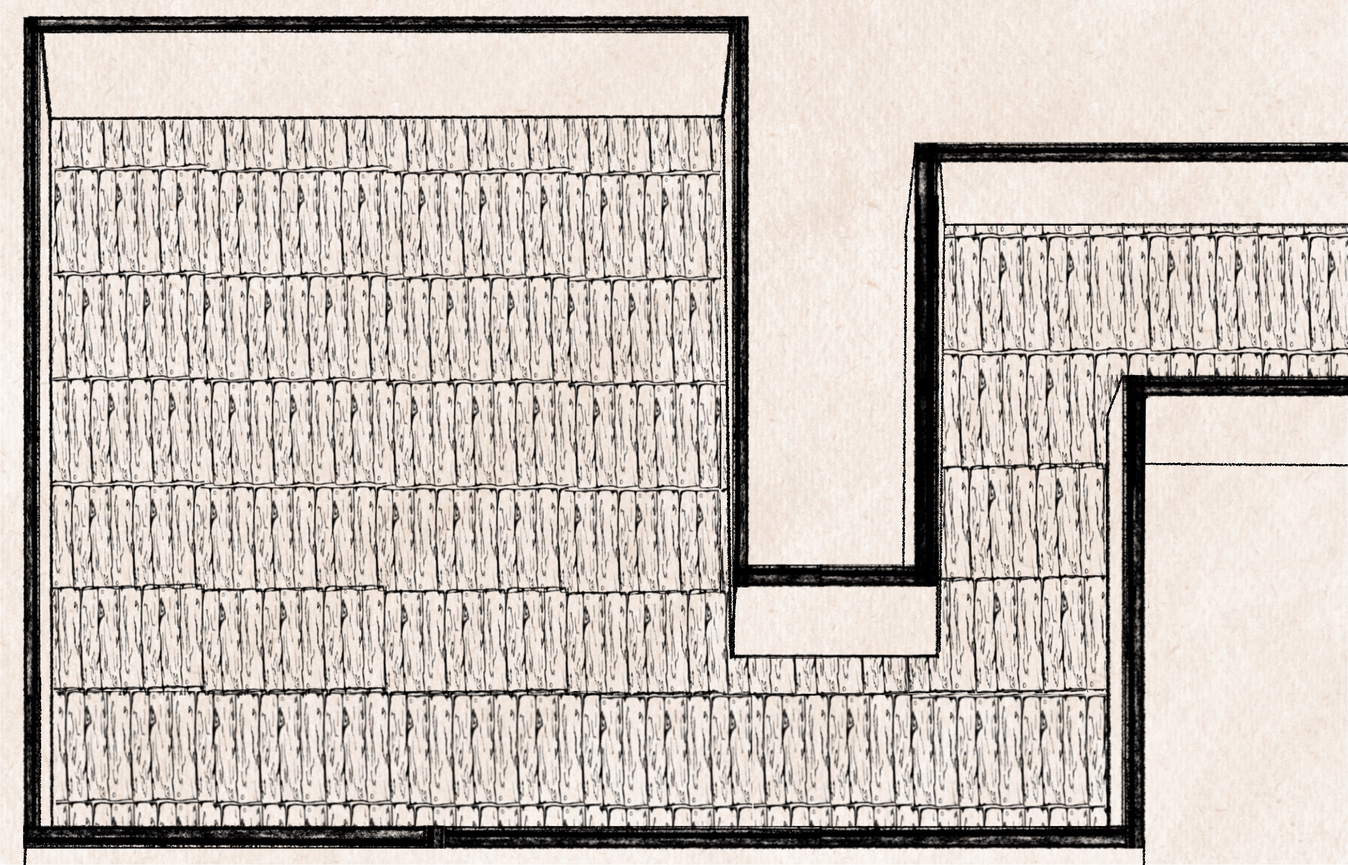
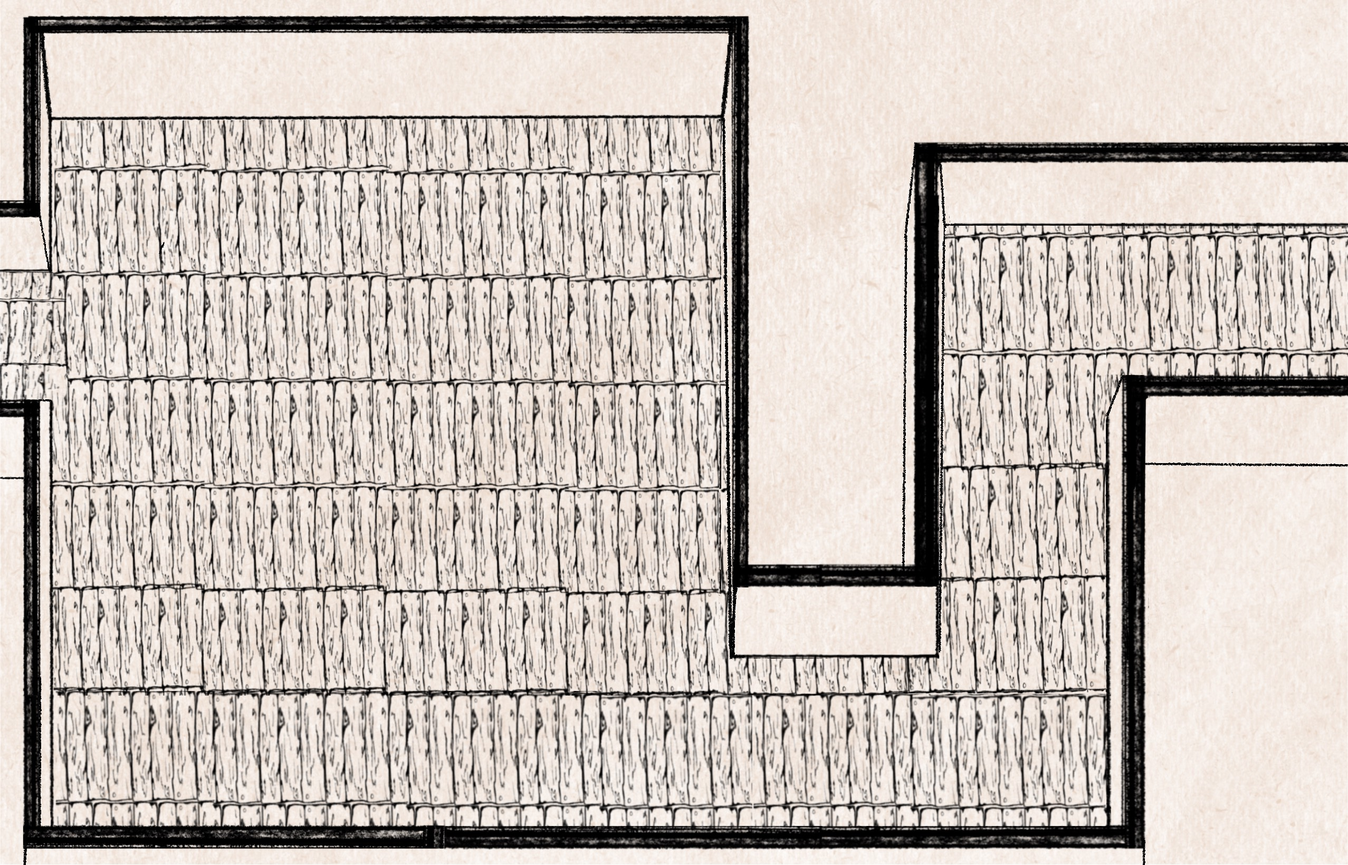
put all of the wall for the 13 rooms. some need small adjustment but mainly all of it works well. also place all of the doorways in the right place but need to make sure that all of the new x and y are correct

Changed region(s): [[0.0, 0.2177, 0.0618, 0.4976]]

diff --git a/Work/Maze_Game/Phaser_version/js/Room.js b/Work/Maze_Game/Phaser_version/js/Room.js
@@ -48,22 +48,68 @@ class Room extends Phaser.GameObjects.Container {
             this.walls.add(new Wall(this.scene, 400, 140, 800, 60));
         }
         else if (this.roomKey === 'room5') {
-            this.walls.add(new Wall(this.scene, 720, 500, 120, 200));
-            this.walls.add(new Wall(this.scene, 720, 150, 120, 200));
+            this.walls.add(new Wall(this.scene, 720, 490, 125, 200));
+            this.walls.add(new Wall(this.scene, 720, 150, 125, 200));
             this.walls.add(new Wall(this.scene, 400, 15, 600, 60));
             this.walls.add(new Wall(this.scene, 400, 575, 600, 60));
             this.walls.add(new Wall(this.scene, 400, 300, 350, 265));
-            this.walls.add(new Wall(this.scene, 80, 500, 120, 200));
-            this.walls.add(new Wall(this.scene, 80, 150, 120, 200));
+            this.walls.add(new Wall(this.scene, 80, 500, 125, 200));
+            this.walls.add(new Wall(this.scene, 80, 150, 125, 200));
         }
         else if (this.roomKey === 'room6') {
-            this.walls.add(new Wall(this.scene, 630, 120, 350, 350));
-            this.walls.add(new Wall(this.scene, 630, 600, 350, 350));
+            this.walls.add(new Wall(this.scene, 610, 120, 350, 355));
+            this.walls.add(new Wall(this.scene, 610, 618, 350, 355));
             this.walls.add(new Wall(this.scene, 100, 60, 160, 150));
             this.walls.add(new Wall(this.scene, 350, 60, 160, 150));
             this.walls.add(new Wall(this.scene, 300, 600, 600, 30));
-            this.walls.add(new Wall(this.scene, 15, 300, 20, 500));
-
+            this.walls.add(new Wall(this.scene, 15, 300, 20, 600));
+        }
+        else if (this.roomKey === 'room7') {
+            this.walls.add(new Wall(this.scene, 45, 440, 80, 400)); // this is the left wall
+            this.walls.add(new Wall(this.scene, 128, 50, 430, 180)); //this is the right wall
+            this.walls.add(new Wall(this.scene, 465, 300, 30, 600));
+            this.walls.add(new Wall(this.scene, 328, 440, 300, 400));
+        }
+        else if (this.roomKey === 'room8') {
+            this.walls.add(new Wall(this.scene, 655, 110, 270, 70));
+            this.walls.add(new Wall(this.scene, 715, 450, 135, 400));
+            this.walls.add(new Wall(this.scene, 495, 225, 133, 450));
+            this.walls.add(new Wall(this.scene, 220, 35, 450, 55));
+            this.walls.add(new Wall(this.scene, 300, 590, 700, 35));
+            this.walls.add(new Wall(this.scene, 15, 100, 35, 150));
+            this.walls.add(new Wall(this.scene, 15, 432, 30, 300));
+        }
+        else if (this.roomKey === 'room9') {
+            this.walls.add(new Wall(this.scene, 190, 508, 300, 305));
+            this.walls.add(new Wall(this.scene, 575, 508, 300, 300));
+            this.walls.add(new Wall(this.scene, 260, 103, 190, 240));
+            this.walls.add(new Wall(this.scene, 540, 103, 190, 240));
+            this.walls.add(new Wall(this.scene, 45, 300, 60, 600));
+            this.walls.add(new Wall(this.scene, 728, 300, 30, 600));
+        }
+        else if (this.roomKey === 'room10') {
+            this.walls.add(new Wall(this.scene, 342, 300, 20, 600));
+            this.walls.add(new Wall(this.scene, 458, 300, 20, 600));
+            this.walls.add(new Wall(this.scene, 30, 300, 30, 600));
+            this.walls.add(new Wall(this.scene, 780, 300, 30, 600));
+            this.walls.add(new Wall(this.scene, 400, 85, 800, 100));
+            this.walls.add(new Wall(this.scene, 80, 590, 100, 30));
+            this.walls.add(new Wall(this.scene, 278, 590, 100, 30));
+            this.walls.add(new Wall(this.scene, 506, 590, 100, 30));
+            this.walls.add(new Wall(this.scene, 713, 590, 100, 30));
+        }
+        else if (this.roomKey === 'room11') {
+            this.walls.add(new Wall(this.scene, 530, 100, 550, 170));
+            this.walls.add(new Wall(this.scene, 110, 300, 100, 600));
+            this.walls.add(new Wall(this.scene, 450, 355, 700, 100));
+        }
+        else if (this.roomKey === 'room12') {
+            this.walls.add(new Wall(this.scene, 170, 300, 30, 600)); // this is the left wall
+            this.walls.add(new Wall(this.scene, 305, 300, 30, 600)); //this is the right wall
+        }
+        else if (this.roomKey === 'room13') {
+            this.walls.add(new Wall(this.scene, 170, 300, 30, 600)); // this is the left wall
+            this.walls.add(new Wall(this.scene, 305, 300, 30, 600)); //this is the right wall
         }
     }
 
@@ -96,7 +142,39 @@ class Room extends Phaser.GameObjects.Container {
 
         else if (this.roomKey === 'room6') {
             this.doorways.add(new Doorway(this.scene, 785, 400, 10, 125, 'room5', 50, 330));
-            this.doorways.add(new Doorway(this.scene, 200, 10, 125, 10, 'room7', 200, 595));
+            this.doorways.add(new Doorway(this.scene, 210, 10, 125, 10, 'room7', 140, 595));
+        }
+        else if (this.roomKey === 'room7') {
+            this.doorways.add(new Doorway(this.scene, 140, 600, 125, 10, 'room6', 230, 70));
+            this.doorways.add(new Doorway(this.scene, 5, 240, 10, 125, 'room8', 770, 250));
+            this.doorways.add(new Doorway(this.scene, 418, 5, 110, 10, 'room9', 395, 595));
+        }
+        else if (this.roomKey === 'room8') {
+            this.doorways.add(new Doorway(this.scene, 785, 210, 10, 125, 'room7', 50, 245));
+            this.doorways.add(new Doorway(this.scene, 5, 220, 10, 125, 'room11', 770, 270));
+        }
+        else if (this.roomKey === 'room9') {
+            this.doorways.add(new Doorway(this.scene, 380, 600, 125, 10, 'room7', 400, 70));
+            this.doorways.add(new Doorway(this.scene, 125, 5, 110, 10, 'room10', 175, 590));
+            this.doorways.add(new Doorway(this.scene, 420, 5, 110, 10, 'room10', 420, 590));
+            this.doorways.add(new Doorway(this.scene, 675, 5, 110, 10, 'room10', 610, 590));
+        }
+        else if (this.roomKey === 'room10') {
+            this.doorways.add(new Doorway(this.scene, 145, 600, 125, 10, 'room9', 115, 70));
+            this.doorways.add(new Doorway(this.scene, 420, 600, 125, 10, 'room9', 410, 70));
+            this.doorways.add(new Doorway(this.scene, 610, 600, 125, 10, 'room9', 675, 70));
+        }
+        else if (this.roomKey === 'room11') {
+            this.doorways.add(new Doorway(this.scene, 785, 270, 10, 125, 'room8', 270, 70));
+            this.doorways.add(new Doorway(this.scene, 210, 10, 125, 10, 'room12', 215, 595));
+        }
+        else if (this.roomKey === 'room12') {
+            this.doorways.add(new Doorway(this.scene, 215, 600, 125, 10, 'room11', 215, 70));
+            this.doorways.add(new Doorway(this.scene, 215, 5, 125, 10, 'room13', 215, 595));
+        }
+        else if (this.roomKey === 'room13') {
+            this.doorways.add(new Doorway(this.scene, 215, 600, 125, 10, 'room12', 215, 70));
+            this.doorways.add(new Doorway(this.scene, 215, 5, 125, 10, 'roomEnd', 575, 595));
         }
     }
 

diff --git a/Work/Maze_Game/Phaser_version/js/GameScene.js b/Work/Maze_Game/Phaser_version/js/GameScene.js
@@ -15,6 +15,13 @@ class GameScene extends Phaser.Scene {
         this.load.image('room4', 'assets/images/room4.png');
         this.load.image('room5', 'assets/images/room5.png');
         this.load.image('room6', 'assets/images/room6.png');
+        this.load.image('room7', 'assets/images/room7.png');
+        this.load.image('room8', 'assets/images/room8.png');
+        this.load.image('room9', 'assets/images/room9.png');
+        this.load.image('room10', 'assets/images/room10.png');
+        this.load.image('room11', 'assets/images/room11.png');
+        this.load.image('room12', 'assets/images/room12.png');
+        this.load.image('room13', 'assets/images/room13.png');
 
         this.load.image('character_front_left', 'assets/images/character_front_left.png');
         this.load.image('character_front_middle', 'assets/images/character_front_middle.png');
